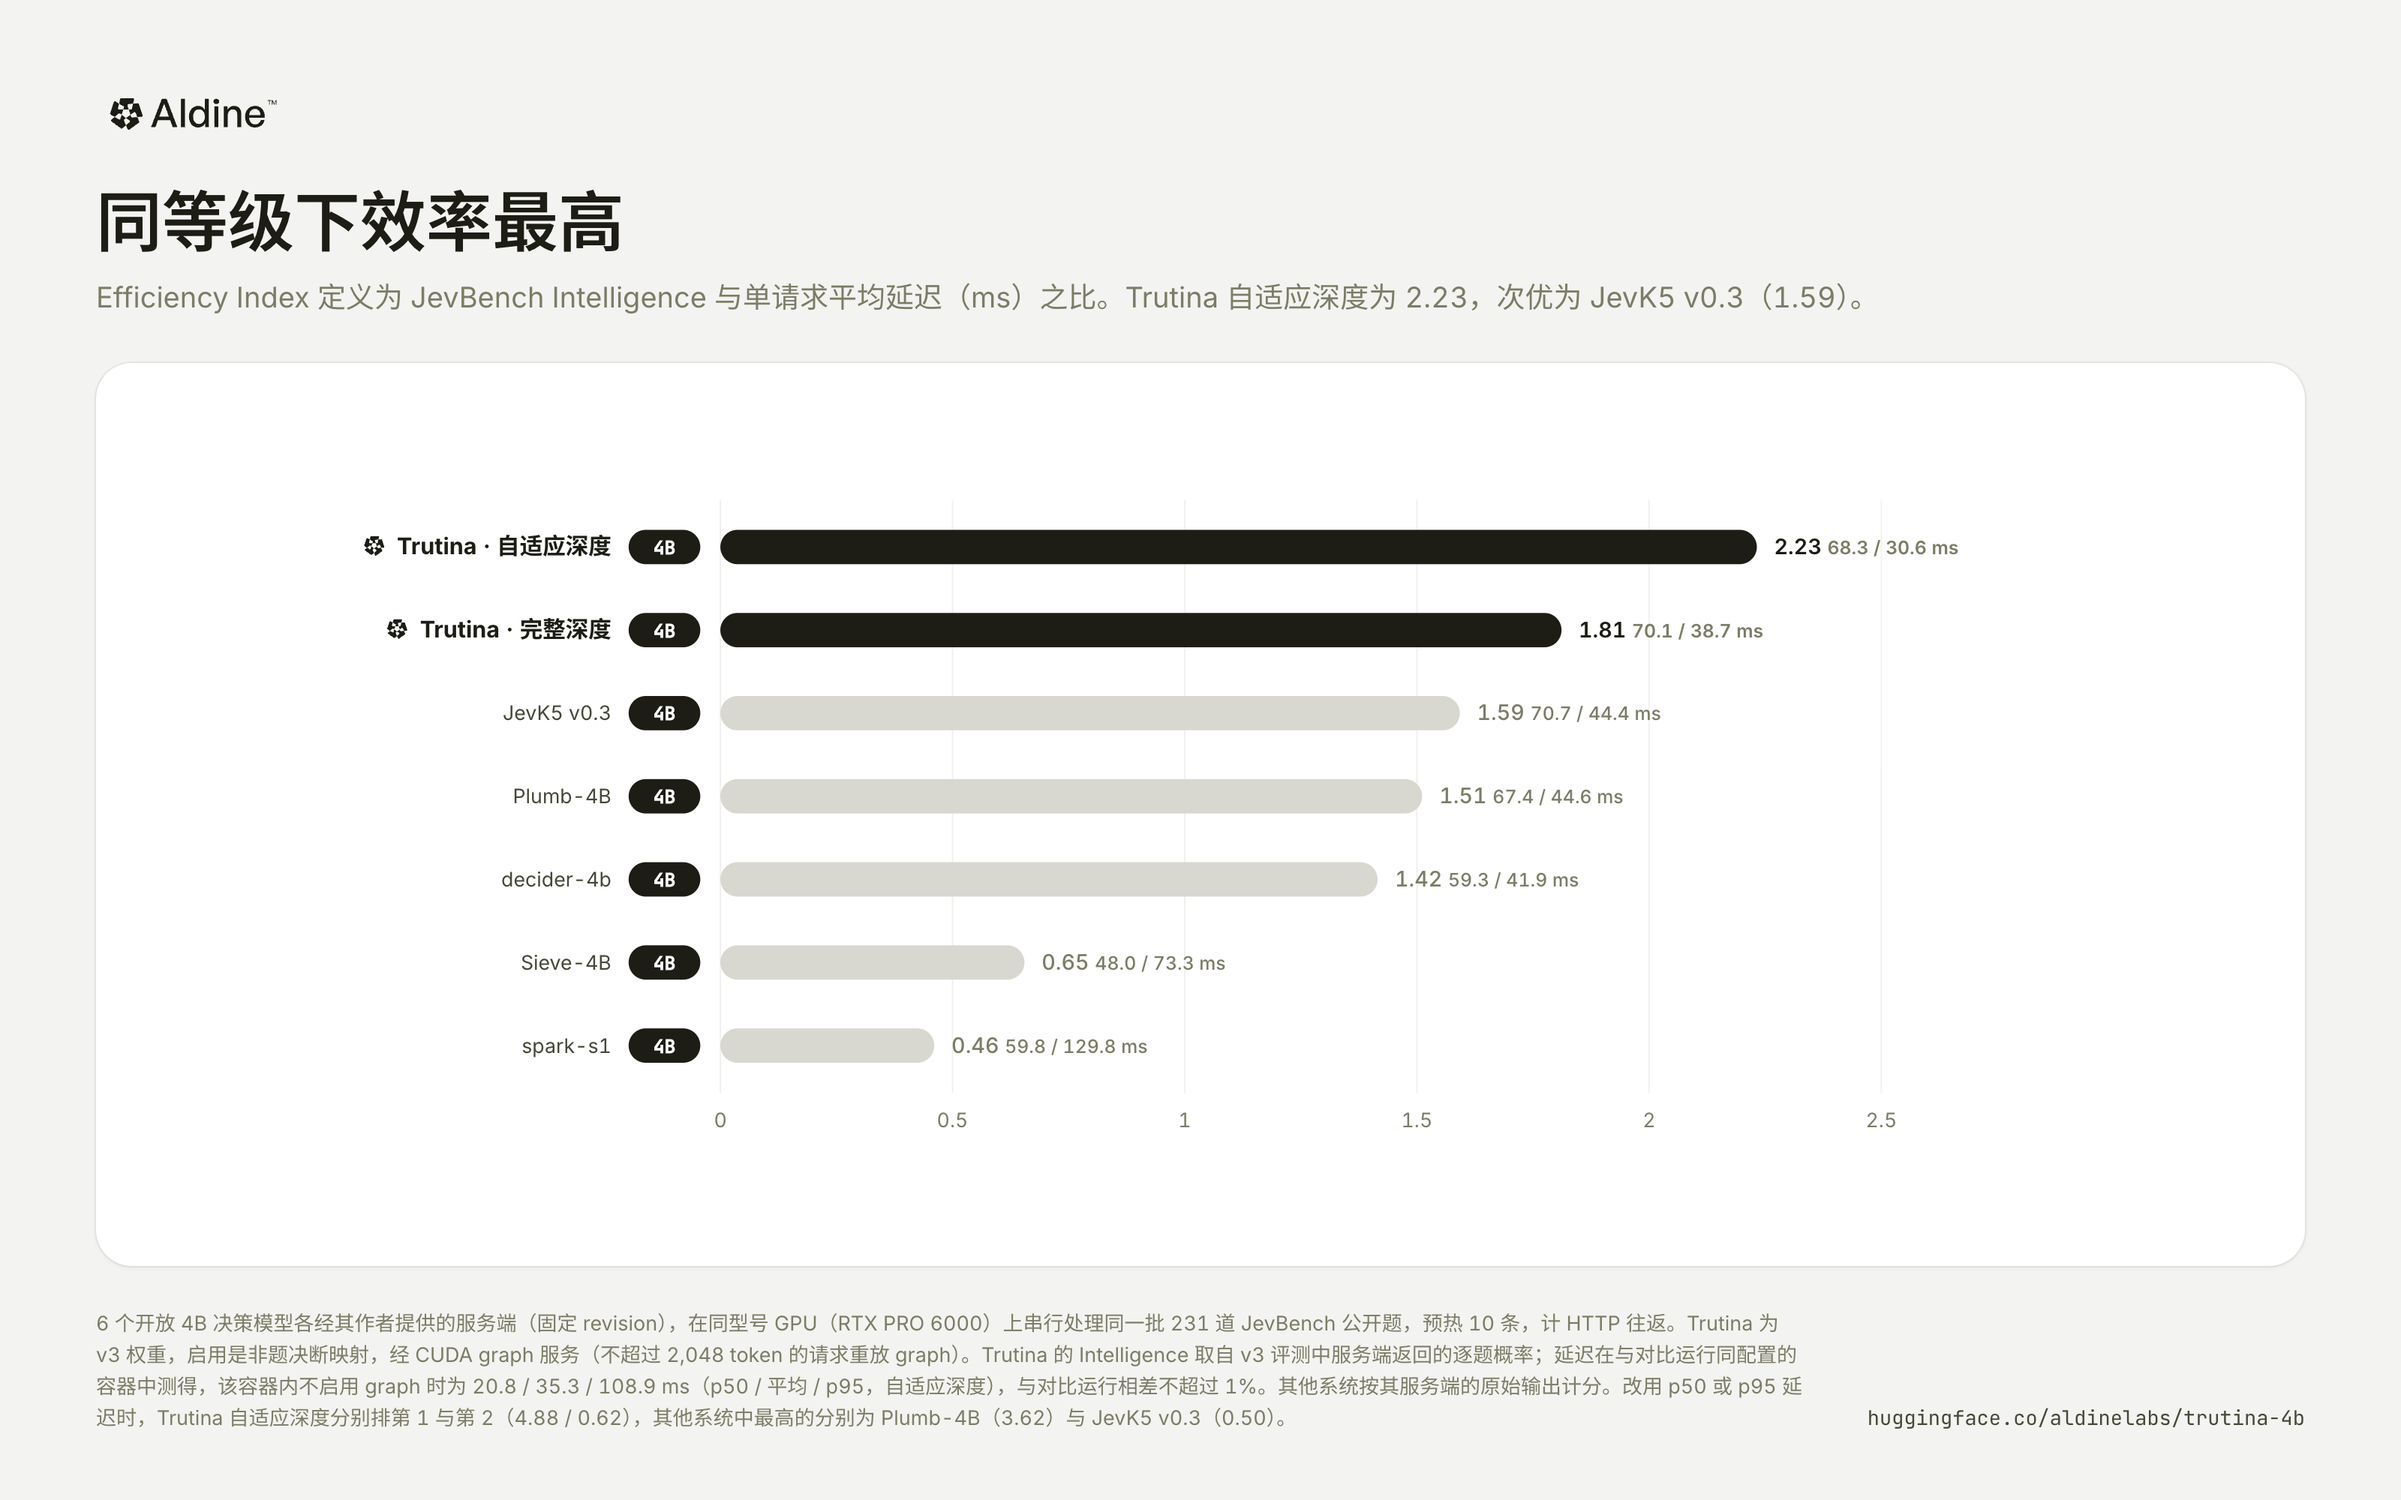
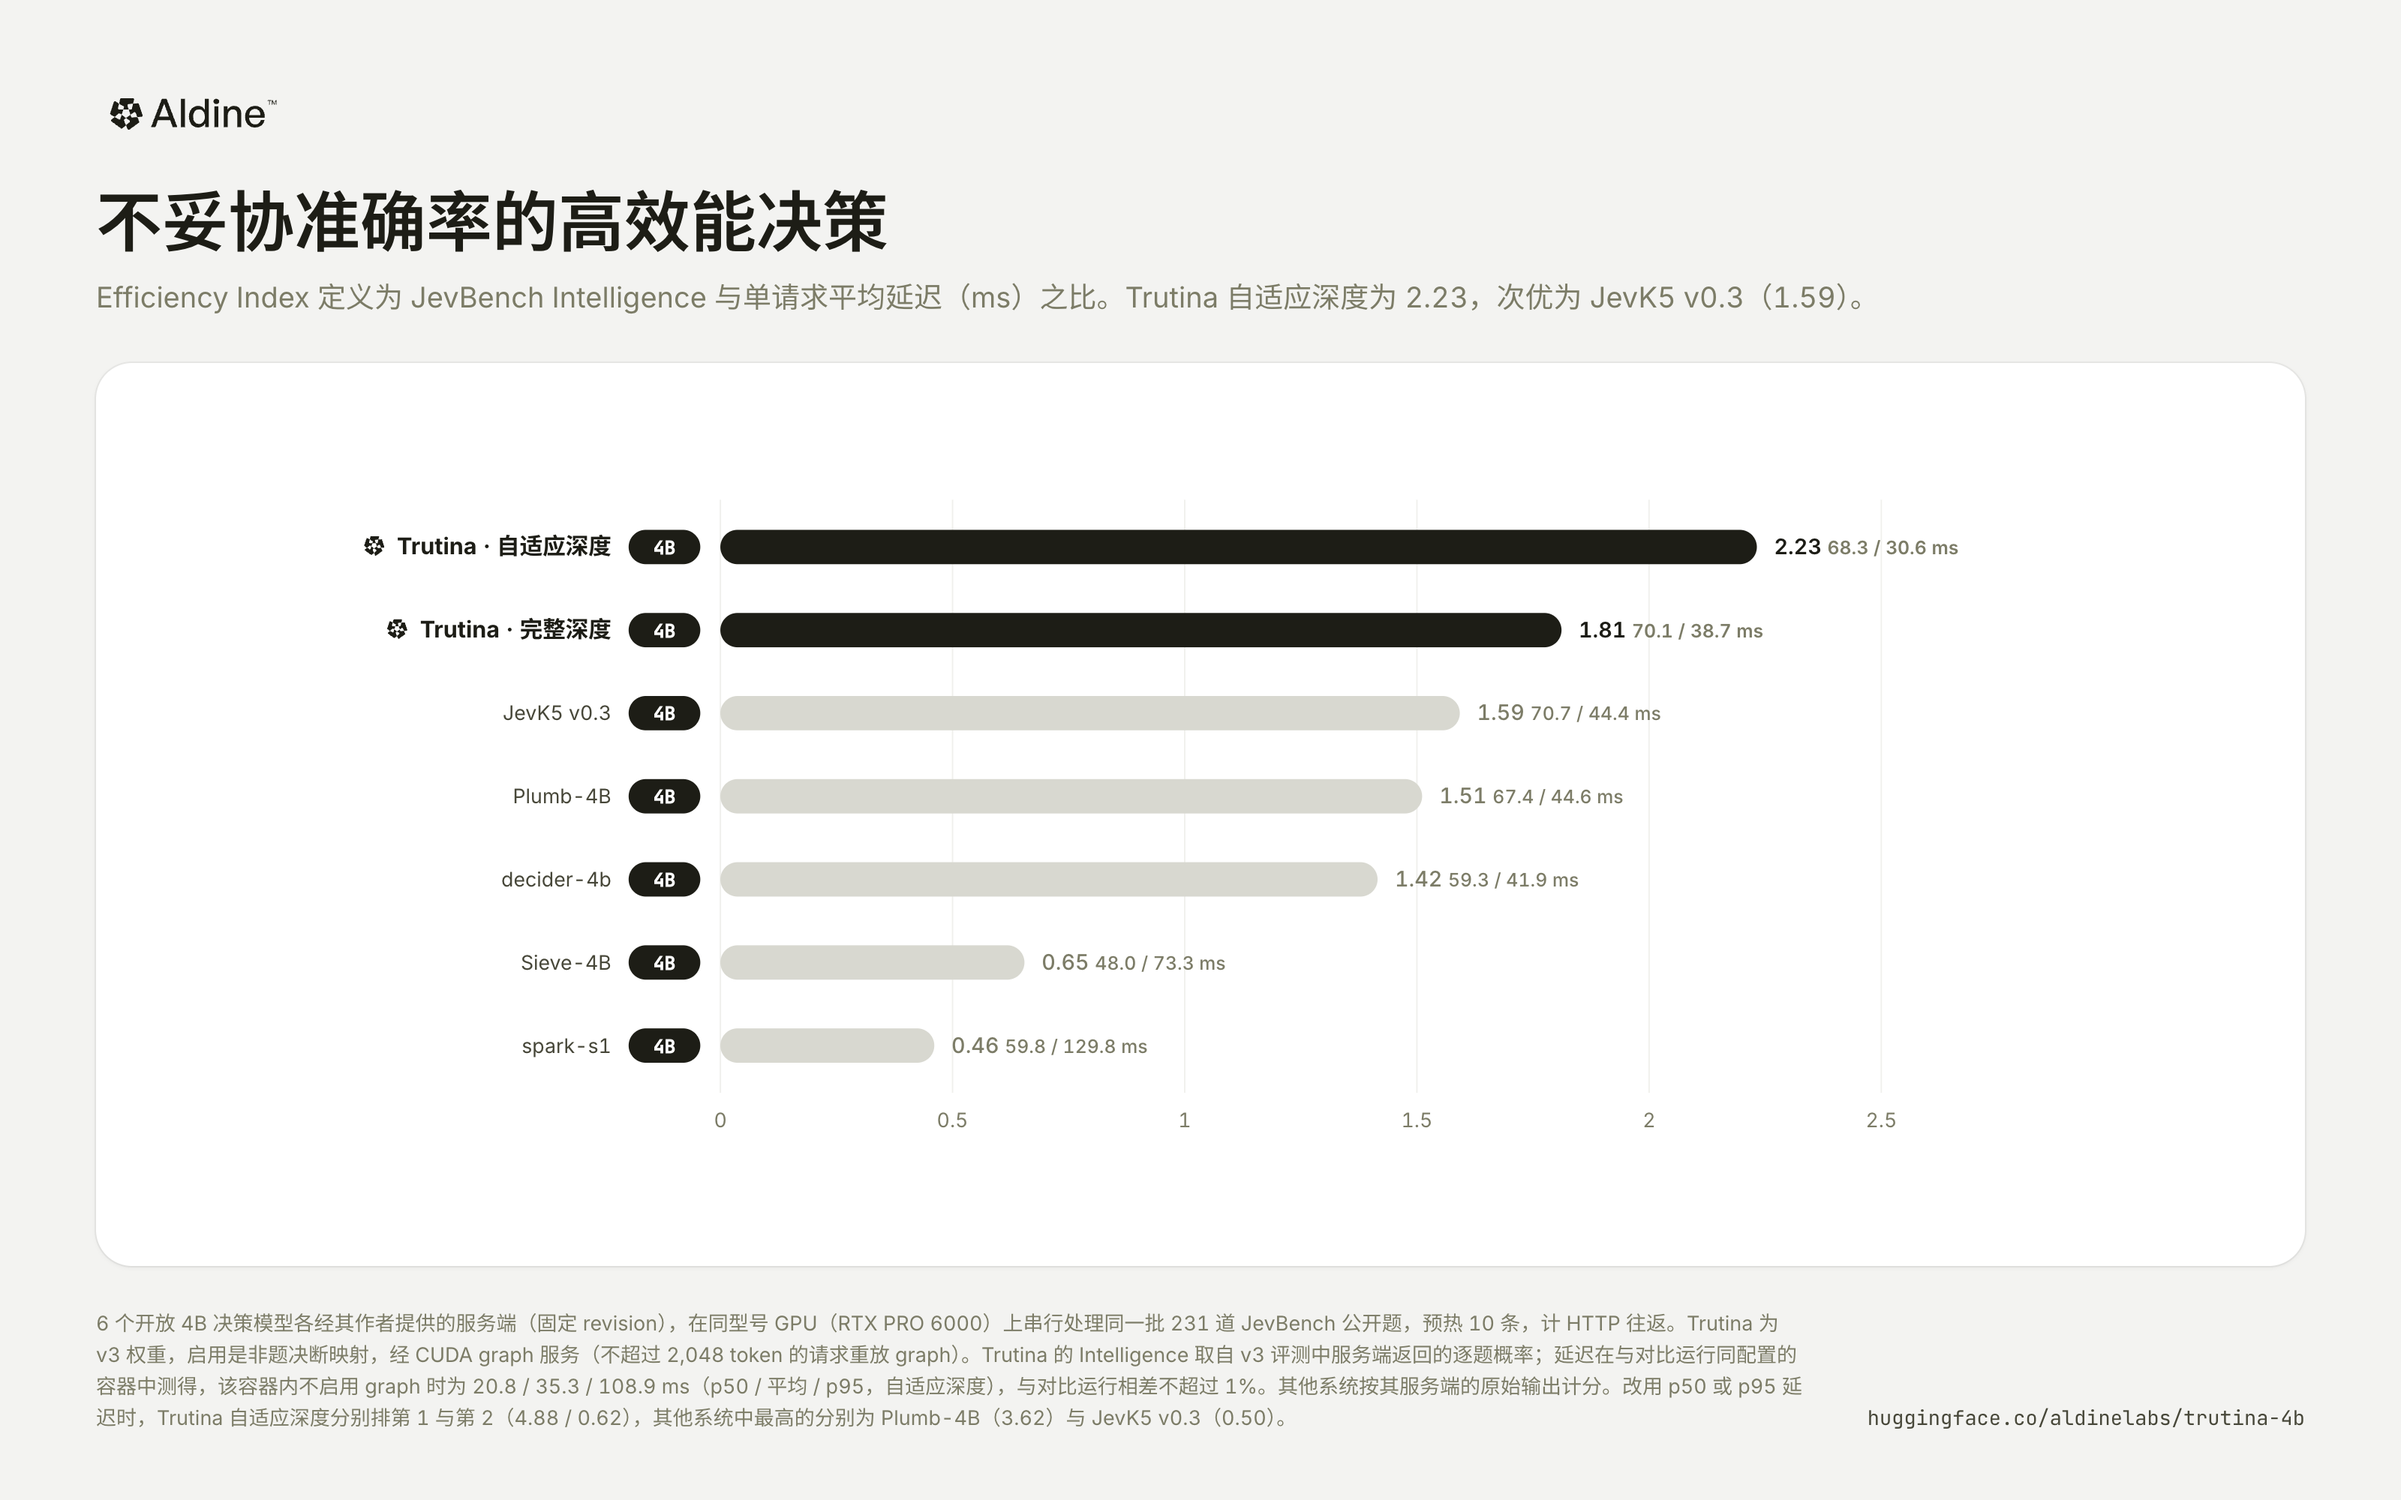
docs: efficiency chart title, efficient decisions without trading away accuracy

Changed region(s): [[0.0312, 0.124, 0.375, 0.186]]

diff --git a/assets/charts/charts.html b/assets/charts/charts.html
@@ -199,12 +199,12 @@ function efficiency() {
   rows.forEach(r => { r.ei95 = r.i_open / r.p95; });
   const n50 = by("ei50").find(r => !r.us), n95 = by("ei95").find(r => !r.us);
   return frame(zh ? {
-    title: "同等级下效率最高",
+    title: "不妥协准确率的高效能决策",
     sub: `Efficiency Index 定义为 JevBench Intelligence 与单请求平均延迟（ms）之比。Trutina 自适应深度为 ${rows[0].ei.toFixed(2)}，次优为 ${next.label}（${next.ei.toFixed(2)}）。`,
     body: `<div class="card">${svgTag(W, H)}${g}</svg></div>`,
     src: `${SAME_RUN_ZH}${US_ZH}改用 p50 或 p95 延迟时，Trutina 自适应深度分别排第 ${rank("ei50")} 与第 ${rank("ei95")}（${ad.ei50.toFixed(2)} / ${ad.ei95.toFixed(2)}），其他系统中最高的分别为 ${n50.label}（${n50.ei50.toFixed(2)}）与 ${n95.label}（${n95.ei95.toFixed(2)}）。`,
   } : {
-    title: "The most efficient in its class",
+    title: "Efficient decisions without trading away accuracy",
     sub: `Efficiency Index = JevBench Intelligence ÷ mean latency per request in ms. Trutina with adaptive depth scores ${rows[0].ei.toFixed(2)}; next is ${next.label} (${next.ei.toFixed(2)}).`,
     body: `<div class="card">${svgTag(W, H)}${g}</svg></div>`,
     src: `${SAME_RUN_EN} ${US_EN} With p50 or p95 latency instead, Trutina with adaptive depth ranks ${rank("ei50")} and ${rank("ei95")} (${ad.ei50.toFixed(2)} / ${ad.ei95.toFixed(2)}); the best other systems are ${n50.label} (${n50.ei50.toFixed(2)}) and ${n95.label} (${n95.ei95.toFixed(2)}).`,

diff --git a/assets/charts/render.py b/assets/charts/render.py
@@ -11,7 +11,7 @@ from pathlib import Path
 from playwright.sync_api import sync_playwright
 
 HERE = Path(__file__).resolve().parent
-CHARTS = ["typed", "panel", "bigger", "overview", "pareto", "efficiency", "localllama", "adaptive", "heldout"]
+CHARTS = ["typed", "panel", "bigger", "overview", "pareto", "efficiency", "size", "localllama", "adaptive", "heldout"]
 LANGS = ["en", "zh"]
 
 
